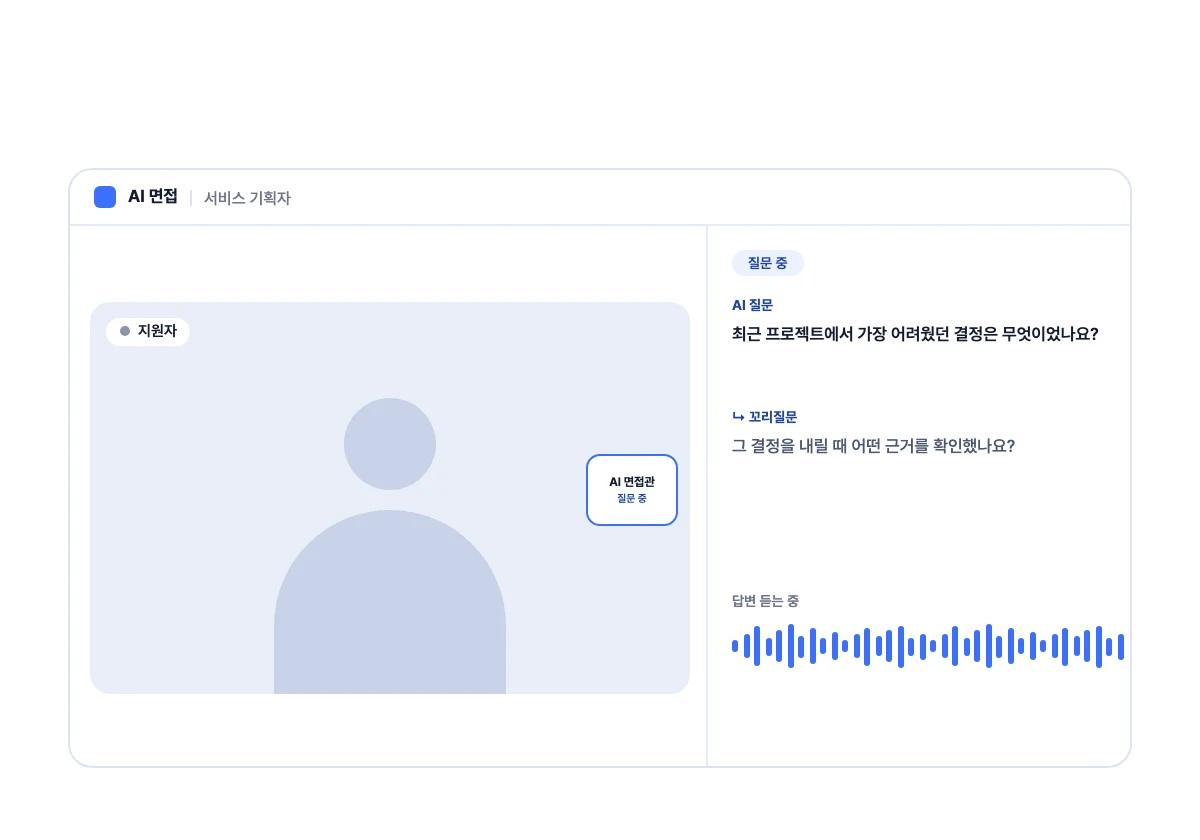
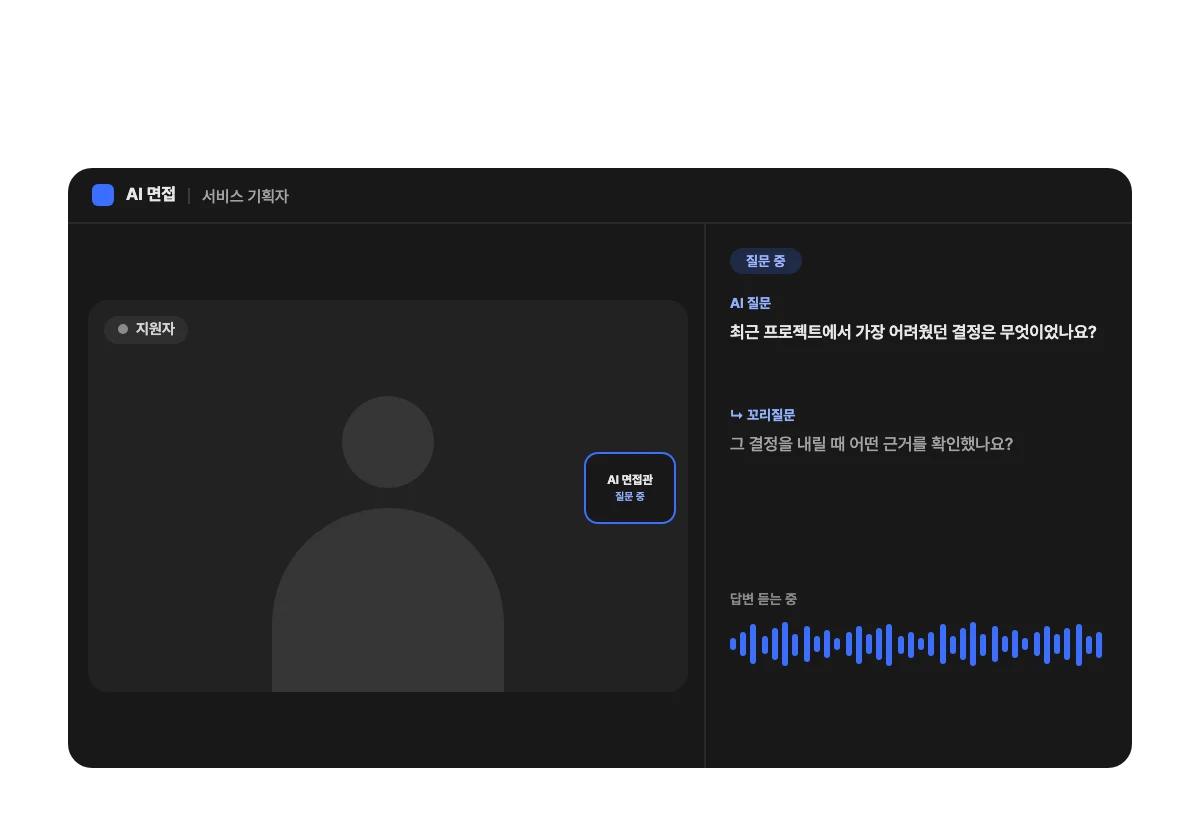
AI 면접 히어로 화면을 AI 역량검사와 같은 어두운 색으로, 답변 파형 오른쪽 여백, 면접 도식의 사람 실루엣 → AI 면접관 오브
- hero-interview-base: 흰 화면 → #181818 계열(AI 역량검사 캡처와 같은 값), '답변 듣는 중' 파형을 패널 안쪽 12/16px 여백 안으로
- diagram-question: 영상 카드의 사람 실루엣을 AI 면접관 오브(dark 팔레트, orb.js로 표시 크기 그대로)로 교체 — 홈 제품 카드·AI 면접 진행 방식·AI 역량검사의 다른 제품 안내가 함께 바뀜
- 대체 텍스트·주석·CLAUDE.md 갱신

diff --git a/app/ai-interview/page.tsx b/app/ai-interview/page.tsx
@@ -87,7 +87,7 @@ const JSON_LD = {
 };
 
 // 섹션 흐름(2026-11-25 정리 — "길다"는 피드백으로 AI 역량검사와 같은 흐름에 맞춤, 13개 → 11개):
-// 01 히어로(어두운 바탕 + 흰 화면) · 02 고객사 로고(AI 면접에만) · 03 문제(어두운 띠, 문제→해결 세 쌍) · 04 진행 방식(면접 진행 + 리포트 4종, 한 지그재그)
+// 01 히어로(밝은 바탕 + 어두운 화면) · 02 고객사 로고(AI 면접에만) · 03 문제(어두운 띠, 문제→해결 세 쌍) · 04 진행 방식(면접 진행 + 리포트 4종, 한 지그재그)
 // · 05 면접 유형 · 06 도입 3단계(화면 이미지) · 07 부정행위 감지 · 08 보안 · 09 FAQ · 10 AI 역량검사 안내 · 11 마지막 CTA(+ 차별점 띠)
 // 뺀 것: '이럴 때 씁니다'(문제 띠로), '지원자 응시 과정'·'채용팀 기능'(FAQ로). 순서: 면접 유형 → 도입 3단계(역량검사의 과제 유형 → 과제 만들기와 같게)
 // 배경: 03 어두운 띠 · 04 흰(.how) · 05 연한 · 06 흰 · 07 연한 · 08 흰 · 09 연한(.faq) · 10 흰
@@ -102,7 +102,7 @@ export default function AiInterviewPage() {
         lead="채용공고를 넣으면 평가 기준과 질문을 만들고, 지원자 답변에 꼬리질문을 이어 갑니다. 채용팀은 리포트를 보고 만날 사람을 정합니다."
         img="/hero-interview-base.webp"
         alt="AI 면접 화면: AI 면접관이 질문과 꼬리질문을 하고, 지원자 답변을 분석해 종합 등급과 역량 막대가 있는 AI 면접 리포트로 정리하는 모습"
-        // 히어로(11/25 B안 3차): AI 역량검사(어두운 화면)와 구분되는 흰 화면 + AI 면접관 오브 카드 + 리포트 카드. 모션은 AI 역량검사와 같은 흐름 —
+        // 히어로(11/25 B안 3차): 화면 + AI 면접관 오브 카드 + 리포트 카드. 화면은 AI 역량검사와 같은 어두운 색(#181818, 11/25 4차 — 흰 화면에서 바꿈). 모션은 AI 역량검사와 같은 흐름 —
         // AI 면접관 카드 위→아래, 리포트 카드 아래→위, '답변 분석 중' 칩 왼쪽→오른쪽. 원본은 _docs/홈페이지 개편/도식/캡처가공(iv3-l-*)
         layers={[
           { src: "/hero-interview-ai.webp", move: "down" },
@@ -144,7 +144,7 @@ export default function AiInterviewPage() {
                   <p>AI 면접관이 질문하고, 지원자의 답변을 들은 뒤 부족한 부분은 꼬리질문으로 한 번 더 확인합니다.</p>
                 </div>
                 <div className="hr-media">
-                  <img className="hr-img" src="/diagram-question.webp" alt="면접 진행 도식: 지원자 영상과 AI 질문·꼬리질문" width={1080} height={570} loading="lazy" />
+                  <img className="hr-img" src="/diagram-question.webp" alt="면접 진행 도식: AI 면접관 영상과 AI 질문·꼬리질문" width={1080} height={570} loading="lazy" />
                 </div>
               </div>
             }

diff --git a/components/ProductHero.tsx b/components/ProductHero.tsx
@@ -11,7 +11,7 @@ export type HeroLine = { d: string; dot: [number, number] };
  * 제품 상세 페이지 히어로(2026-11-25) — /ai-interview·/ai-assessment 공용. 홈은 어두운 PageHero를 그대로 쓴다.
  * 밝은 바탕, 왼쪽 제품 이름·제목·설명·버튼, 오른쪽 제품 이미지(public/hero-*.webp, 1200×840 투명 배경).
  * 이미지 원본은 _docs/홈페이지 개편/도식/캡처가공/make.mjs — AI 역량검사는 실제 응시 화면을 가공한 레이어(hero-l-*: 화면·AI 어시스턴트·보고서·칩,
- * 글은 '파일 1, 2, 3' 같은 일반 내용), AI 면접은 AI 역량검사와 구분되는 흰 화면을 캡처 배치대로 그린 레이어(iv3-l-*: 화면·AI 면접관 오브 카드·리포트·칩).
+ * 글은 '파일 1, 2, 3' 같은 일반 내용), AI 면접은 AI 역량검사와 같은 어두운 화면을 캡처 배치대로 그린 레이어(iv3-l-*: 화면·AI 면접관 오브 카드·리포트·칩).
  * layers를 주면 img를 바탕으로 레이어를 겹쳐 그리고 움직인다(움직임 줄이기 설정이면 멈춤). 스타일은 app/landing.css(.phero).
  * data-nav를 두지 않는다 — 밝은 바탕이라 GNB를 반전하지 않는다(AI 면접에 어두운 바탕을 잠깐 썼다가 "답답하다"는 피드백으로 되돌림, 11/25).
  */

diff --git a/lib/products.ts b/lib/products.ts
@@ -7,7 +7,7 @@ export const PRODUCTS = [
     desc: "AI가 질문하고, 검증 리포트까지 정리합니다",
     isNew: false,
     img: "/diagram-question.webp",
-    alt: "AI 면접 도식: 지원자 영상과 AI 질문·꼬리질문",
+    alt: "AI 면접 도식: AI 면접관 영상과 AI 질문·꼬리질문",
   },
   {
     href: "/ai-assessment",

diff --git a/CLAUDE.md b/CLAUDE.md
@@ -26,7 +26,7 @@ Supercoder AI 웹사이트 — **AIVIEW** 제품 랜딩 + 블로그/도입문의
   - `app/privacy`, `app/terms`, `app/terms-applicant` — 법적 페이지(서버). `app/not-found.tsx` — 404.
 - **공유 디자인 토큰·컴포넌트 CSS는 `app/globals.css` (SSOT).** `:root` 변수(`--blue`,`--ink`,`--soft`,`--r`,`--shadow` 등)·버튼(`.btn*`)·`.eyebrow`·GNB(`header`/`nav`)·푸터(`footer`)·모달(`.bro-*`)·챗봇(`.cbot*`)·법적 페이지(`.legal`)가 모두 여기. 루트 `layout.tsx`에서 1회 import. **공유 컴포넌트를 바꿀 땐 `app/globals.css`만 고치면 전 페이지가 함께 바뀐다.**
 - **페이지 고유 CSS는 라우트 폴더에 co-located** (`app/landing.css`, `app/apply/apply.css`, `app/blog/blog.css`, `app/blog/[id]/post.css`, `app/admin/admin.css`). 해당 page에서 import. 클래스는 전역 스코프(원본 정적 사이트와 동일 동작).
-- **공유 컴포넌트(`components/`):** `SiteHeader`(섹션 인지형 GNB·메뉴. '제품▾' 펼침 메뉴 항목은 `PRODUCTS` 배열 하나를 데스크톱·모바일이 함께 쓴다), `SiteFooter`, `Chatbot`(FAQ 챗봇), `HeroParticles`(canvas 입자 모션, 히어로·CTA 공용), `Analytics`·`UtmCapture`·`ViewCounter`. 모두 `layout.tsx`에 마운트되거나 page에서 사용. `"use client"`. 홈·제품 페이지가 같이 쓰는 섹션은 서버 컴포넌트 `PageHero`(홈 전용 다크 히어로, 강조어는 `HeroWord`)·`ProductHero`(제품 상세 페이지 히어로 — 밝은 바탕 + 오른쪽 제품 이미지 `public/hero-*.webp`, 두 제품 모두 밝은 바탕 — AI 역량검사는 어두운 화면, AI 면접은 흰 화면 이미지로 구분한다. AI 역량검사는 실제 응시 화면 캡처를 가공한 것(어두운 화면), AI 면접은 그와 구분되는 흰 화면을 캡처 배치대로 그린 것 — 둘 다 `_docs/홈페이지 개편/도식/캡처가공/make.mjs`. `layers`·`lines`를 주면 바탕 위에 투명 레이어를 겹쳐 레이어마다 움직인다 — AI 역량검사는 `public/hero-assessment-*.webp`, AI 면접은 `public/hero-interview-*.webp`(화면·AI 면접관 카드·리포트·칩).)·`StepFlow`(3단계 카드 줄, 단계마다 `img`를 주면 카드 아래에 실제 화면을 꽉 차게 붙인다 — `.pstep.has-shot`)·`TeamSection`(채용팀 기능, 두 제품 공용)·`ClientLogos`(도입사 로고 마퀴)·`ReportRows`(리포트 4종)·`IntegritySection`(부정행위 감지 — 왼쪽 감지 항목 6개, 오른쪽 HTML '감지 내역' 예시 카드, 홈은 `withLink`)·`SecuritySection`(좌우 분할 — 왼쪽 제목·ISO 인증 마크, 오른쪽 보안 항목 목록)·`FaqList`(FAQ 목록)·`SoftCta`(중간 안내 한 줄+버튼 — 홈 서비스소개서 안내)·`NextProductCard`(제품 페이지 끝 다른 제품 안내, 상대 제품 도식 썸네일 카드)·`FinalCta`(마지막 CTA, `points`를 주면 버튼 아래 차별점 띠 — AI 역량검사) — 스타일은 `app/landing.css`. 제품 이름·주소·한 줄 설명·도식 썸네일은 `lib/products.ts`(GNB·푸터·홈 카드·NextProductCard 공용), ISO 인증 목록은 `lib/certs.ts`(푸터·보안 섹션 공용). 제품 문구의 사실 근거·금지 표현은 `_docs/홈페이지 개편/AI면접_AI역량검사_차이_소개자료.md`. ⚠ `CostCalculator.tsx`는 **어디에도 마운트돼 있지 않다**(미사용). 소개서 리드는 옛 `BrochureModal`이 아니라 `app/brochure/` 라우트가 담당한다.
+- **공유 컴포넌트(`components/`):** `SiteHeader`(섹션 인지형 GNB·메뉴. '제품▾' 펼침 메뉴 항목은 `PRODUCTS` 배열 하나를 데스크톱·모바일이 함께 쓴다), `SiteFooter`, `Chatbot`(FAQ 챗봇), `HeroParticles`(canvas 입자 모션, 히어로·CTA 공용), `Analytics`·`UtmCapture`·`ViewCounter`. 모두 `layout.tsx`에 마운트되거나 page에서 사용. `"use client"`. 홈·제품 페이지가 같이 쓰는 섹션은 서버 컴포넌트 `PageHero`(홈 전용 다크 히어로, 강조어는 `HeroWord`)·`ProductHero`(제품 상세 페이지 히어로 — 밝은 바탕 + 오른쪽 제품 이미지 `public/hero-*.webp`, 두 제품 모두 밝은 바탕 + 같은 어두운 제품 화면(#181818 계열, 2026-11-25 AI 면접도 AI 역량검사 색으로 맞춤). AI 역량검사는 실제 응시 화면 캡처를 가공한 것, AI 면접은 캡처가 없어 같은 색으로 캡처 배치대로 그린 것 — 둘 다 `_docs/홈페이지 개편/도식/캡처가공/make.mjs`. `layers`·`lines`를 주면 바탕 위에 투명 레이어를 겹쳐 레이어마다 움직인다 — AI 역량검사는 `public/hero-assessment-*.webp`, AI 면접은 `public/hero-interview-*.webp`(화면·AI 면접관 카드·리포트·칩).)·`StepFlow`(3단계 카드 줄, 단계마다 `img`를 주면 카드 아래에 실제 화면을 꽉 차게 붙인다 — `.pstep.has-shot`)·`TeamSection`(채용팀 기능, 두 제품 공용)·`ClientLogos`(도입사 로고 마퀴)·`ReportRows`(리포트 4종)·`IntegritySection`(부정행위 감지 — 왼쪽 감지 항목 6개, 오른쪽 HTML '감지 내역' 예시 카드, 홈은 `withLink`)·`SecuritySection`(좌우 분할 — 왼쪽 제목·ISO 인증 마크, 오른쪽 보안 항목 목록)·`FaqList`(FAQ 목록)·`SoftCta`(중간 안내 한 줄+버튼 — 홈 서비스소개서 안내)·`NextProductCard`(제품 페이지 끝 다른 제품 안내, 상대 제품 도식 썸네일 카드)·`FinalCta`(마지막 CTA, `points`를 주면 버튼 아래 차별점 띠 — AI 역량검사) — 스타일은 `app/landing.css`. 제품 이름·주소·한 줄 설명·도식 썸네일은 `lib/products.ts`(GNB·푸터·홈 카드·NextProductCard 공용), ISO 인증 목록은 `lib/certs.ts`(푸터·보안 섹션 공용). 제품 문구의 사실 근거·금지 표현은 `_docs/홈페이지 개편/AI면접_AI역량검사_차이_소개자료.md`. ⚠ `CostCalculator.tsx`는 **어디에도 마운트돼 있지 않다**(미사용). 소개서 리드는 옛 `BrochureModal`이 아니라 `app/brochure/` 라우트가 담당한다.
 - **섹션 = 랜딩 구조 (정의된 이름·번호·id).** `app/page.tsx`는 번호 매겨진 섹션 스택이다. 정식 목록(2026-11 개편): 01 히어로(`#hero`), 02 도입사(`#clients`), 03 문제·FLOOD(`#flood`), 04 해결·제품 2종(`#products`, 옛 VALUE 자리), 05 역할·ROLE(`#role`, 깔때기 SVG), 06 작동 방식·리포트 4종+도입 3단계(`#how`), 07 부정행위 감지(`#integrity`), 08 보안(`#security`), 09 성과·PROOF(`#proof`), 10 후기(`#voices`), 11 FAQ(`#faq`), 12 마지막 CTA(`#final`). 배경은 흰색↔연한 블루가 번갈아 오도록 둔다(공용 섹션 틀 `.band`/`.band.soft`). GNB는 섹션 앵커를 쓰지 않는다 — 메뉴는 제품▾(`/ai-interview`·`/ai-assessment`)·블로그·서비스소개서·이벤트(2026-11-24). 부정행위 감지·보안은 메뉴가 아니라 홈·제품 페이지 본문에서 보여준다.
 - **섹션 인지형 GNB:** `[data-nav="dark"]` 섹션(히어로·FINAL) 위에선 헤더 반전(흰 로고). 색 전환 클래스(`header.nav-invert`/`.nav-solid`)는 `globals.css`(SSOT), 감지 로직은 `SiteHeader.tsx`의 `syncHeader`.
 - **폰트·아이콘은 자체 호스팅 서브셋(2026-08-10 성능 최적화):** `layout.tsx`가 `pretendard.css`(woff2 청크만 jsdelivr)와 `fontawesome.css`를 import한다. 아이콘은 `<i className="fa-...">`로 쓰되, **`app/fontawesome.css`에 정의된 아이콘만 쓸 수 있다** — `public/fonts/`의 woff2도 pyftsubset으로 잘라낸 상태라 목록에 없는 이름을 쓰면 버튼은 동작해도 글리프가 렌더되지 않는다(2026-08-21 `fa-flask` 사례). 새 아이콘이 꼭 필요하면 CSS 룰 추가 + 폰트 재서브셋이 함께 필요하다. Supabase는 `@supabase/supabase-js`(npm).
